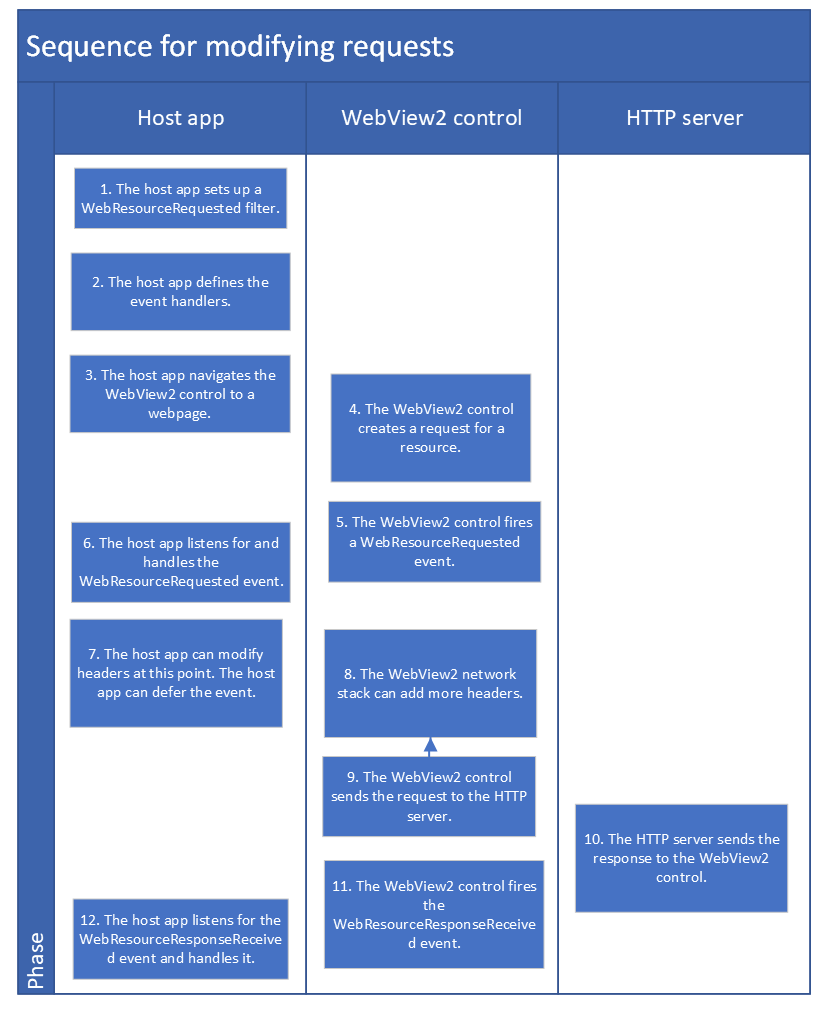
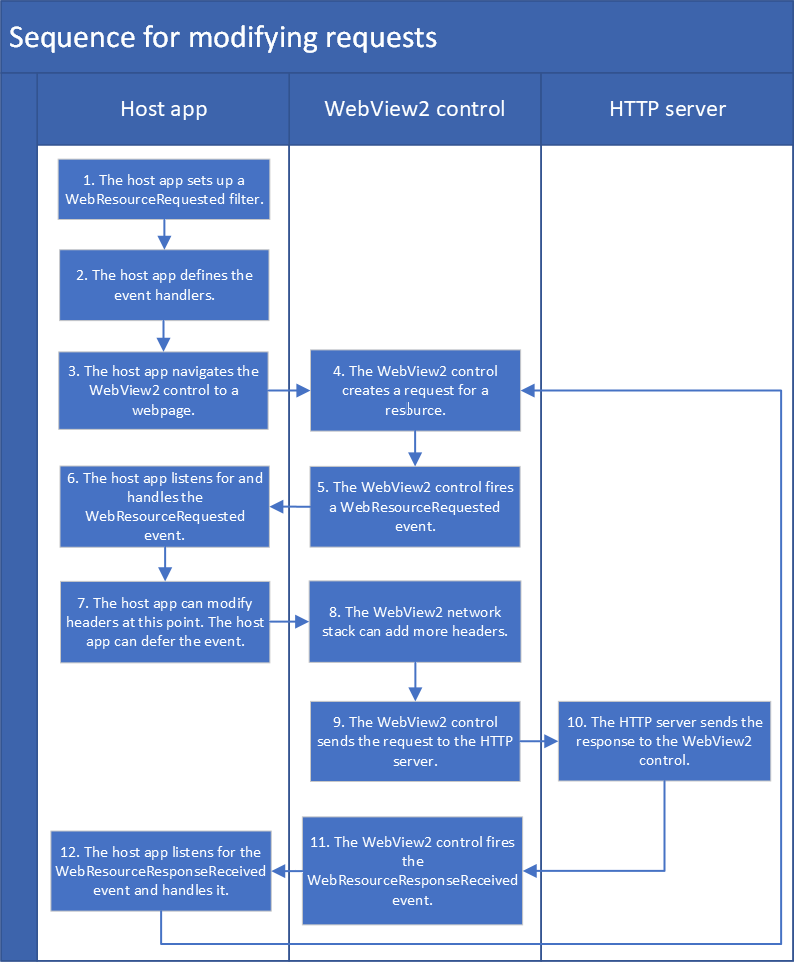
Finish diagrams

Changed region(s): [[0.0, 0.0, 1.0, 1.0], [0.3929, 0.0936, 0.6348, 0.1247], [0.7557, 0.0936, 0.9068, 0.1247]]

diff --git a/microsoft-edge/webview2/how-to/webresourcerequested.md b/microsoft-edge/webview2/how-to/webresourcerequested.md
@@ -20,10 +20,6 @@ writer: add arrows to diagrams
 writer: read through body content
 -->
 
-
-<!-- ====================================================================== -->
-## Introduction
-
 The Microsoft Edge WebView2 control lets you interact with and modify network requests.  You can either provide a response or modify the network request using the `webResourceRequested` and `webResourceResponseReceived` events.  There is also special functionality that allows you to navigate with specific network requests using the `NavigateWithWebResourceRequest API`.
 
 This article describes how you can modify network requests.  Use this API and approach to:
@@ -31,8 +27,16 @@ This article describes how you can modify network requests.  Use this API and ap
 * Block content in a webpage, such as specific images.
 * Fine-tune authentication for specific pages.
 
+**Terminology:**
 
-### When to use other approaches
+| Term | Definition |
+|---|---|
+| intercept | Your host app can intercept (receive) a request that is sent from the WebView2 control to the HTTP server, read or modify the request, and then send the unchanged or modified request to the HTTP server (or to local code instead of the HTTP server). |
+| override | Your host app can override (ignore) a response that's sent from the HTTP server to the WebView2 control, and send a custom response to the WebView2 control instead of the original response. |
+
+
+<!-- ====================================================================== -->
+## When to use custom vs. basic approaches
 
 The `webResourceRequested` and `webResourceResponseReceived` events are powerful tools for various scenarios.  This is a low-level API that gives more control, but requires more coding and is complicated to use.  For some common scenarios, we provide APIs that are easier to use and are optimized for those specific scenarios, and we recommend you use those rather than the APIs discussed in this article.
 
@@ -572,6 +576,7 @@ m_webView->add_WebResourceResponseReceived(
 <!-- ====================================================================== -->
 ## See also
 
-* [NavigateWithWebResourceRequest spec](https://github.com/MicrosoftEdge/WebView2Feedback/blob/master/specs/NavigateWithWebResourceRequest.md)
-* [WebResourceResponseReceived event spec](https://github.com/MicrosoftEdge/WebView2Feedback/blob/master/specs/WebResourceResponseReceived.md)
 * [Call native-side code from web-side code](hostobject.md)
+<!-- 
+* [NavigateWithWebResourceRequest spec](https://github.com/MicrosoftEdge/WebView2Feedback/blob/master/specs/NavigateWithWebResourceRequest.md)
+* [WebResourceResponseReceived event spec](https://github.com/MicrosoftEdge/WebView2Feedback/blob/master/specs/WebResourceResponseReceived.md) -->
